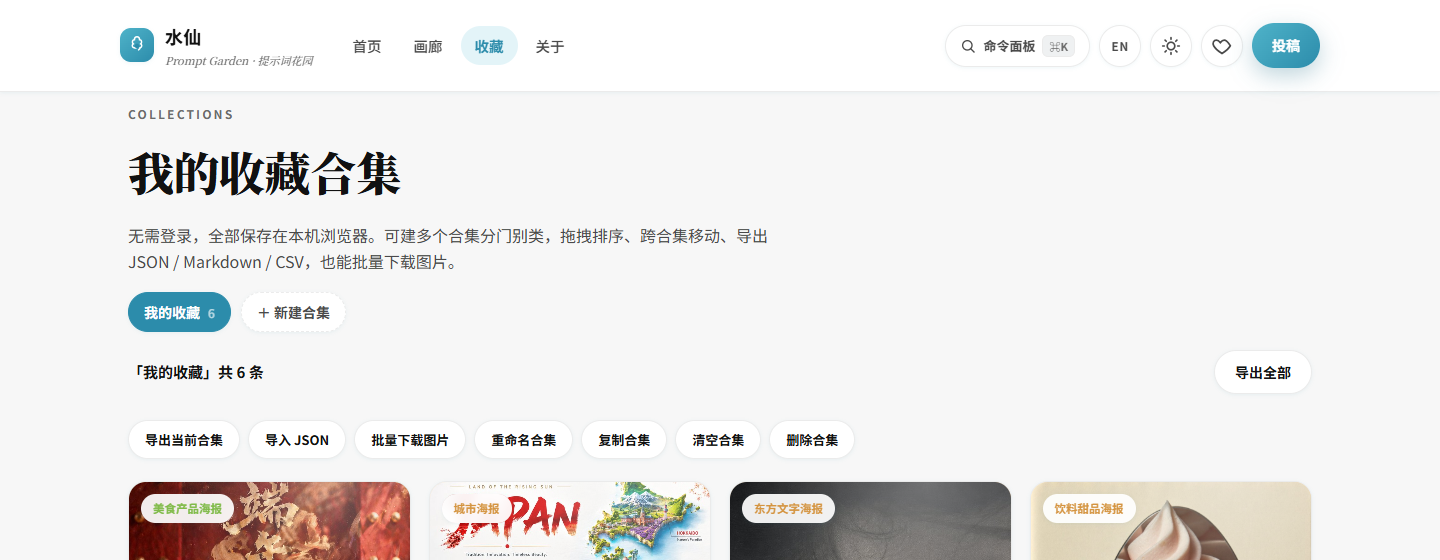
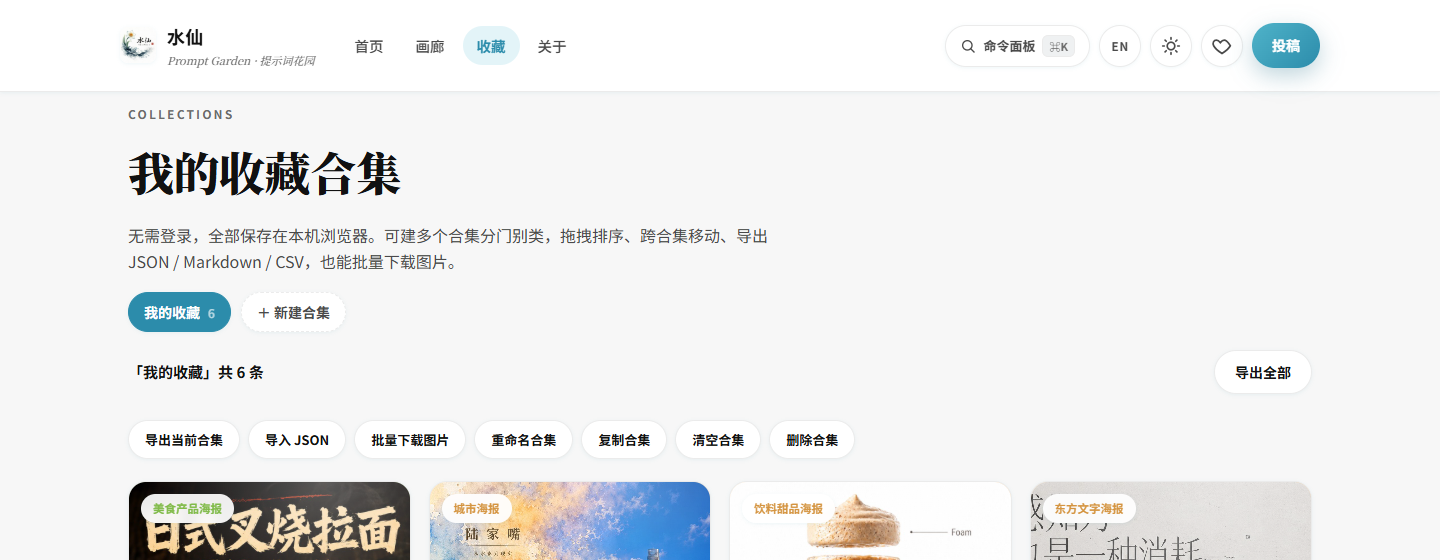
docs: 截图按 6,320 条 / 14 大类重拍
- 8 张截图全部换成当前界面（首页/经典版/详情/命令面板/分面/收藏/英文/手机）
- 详情页示例改用「食物海报」（无变量占位符），收藏示例改用美食·城市·文字·甜品等安全类目
- README 图片 URL 版本参数 ?v=20260921 -> ?v=20261112（避开 GitHub camo 旧图缓存）

Changed region(s): [[0.0625, 0.85, 0.9375, 1.0], [0.0625, 0.0304, 0.2188, 0.1214], [0.25, 0.0607, 0.4062, 0.0911]]

diff --git a/README.md b/README.md
@@ -16,7 +16,7 @@
 
 </div>
 
-<img src="docs/screenshots/features/01-home.png?v=20260921" alt="首页" width="100%">
+<img src="docs/screenshots/features/01-home.png?v=20261112" alt="首页" width="100%">
 
 ## 这是什么
 
@@ -76,22 +76,22 @@ python -m http.server 8094 --directory shuixian-unified
 
 | 现代版 — 页面级拆分 | 经典版 — 14 大类卡片墙 |
 | --- | --- |
-| <img src="docs/screenshots/features/01-home.png?v=20260921" alt="现代版首页"> | <img src="docs/screenshots/unified/home-classic.png?v=20260921" alt="经典版首页"> |
+| <img src="docs/screenshots/features/01-home.png?v=20261112" alt="现代版首页"> | <img src="docs/screenshots/unified/home-classic.png?v=20261112" alt="经典版首页"> |
 
 <details>
 <summary>更多截图（提示词详情 / 命令面板 / 标签分面 / 收藏合集 / 英文版 / 手机端）</summary>
 
 | 提示词详情 · 复制与收藏 | 命令面板 ⌘K |
 | --- | --- |
-| <img src="docs/screenshots/features/07-detail.png?v=20260921" alt="提示词详情"> | <img src="docs/screenshots/features/02-command-palette.png?v=20260921" alt="命令面板"> |
+| <img src="docs/screenshots/features/07-detail.png?v=20261112" alt="提示词详情"> | <img src="docs/screenshots/features/02-command-palette.png?v=20261112" alt="命令面板"> |
 
 | 标签分面 | 收藏合集管理 |
 | --- | --- |
-| <img src="docs/screenshots/features/03-facets.png?v=20260921" alt="标签分面"> | <img src="docs/screenshots/features/08-collections.png?v=20260921" alt="收藏合集"> |
+| <img src="docs/screenshots/features/03-facets.png?v=20261112" alt="标签分面"> | <img src="docs/screenshots/features/08-collections.png?v=20261112" alt="收藏合集"> |
 
 | 英文版 | 手机端 |
 | --- | --- |
-| <img src="docs/screenshots/features/10-english-home.png?v=20260921" alt="英文版"> | <img src="docs/screenshots/features/16-mobile-nav.png?v=20260921" alt="手机端"> |
+| <img src="docs/screenshots/features/10-english-home.png?v=20261112" alt="英文版"> | <img src="docs/screenshots/features/16-mobile-nav.png?v=20261112" alt="手机端"> |
 
 </details>
 

diff --git a/README.en.md b/README.en.md
@@ -16,7 +16,7 @@
 
 </div>
 
-<img src="docs/screenshots/features/01-home.png?v=20260921" alt="Home" width="100%">
+<img src="docs/screenshots/features/01-home.png?v=20261112" alt="Home" width="100%">
 
 ## What is this
 
@@ -75,22 +75,22 @@ Same dataset, two ways to browse. The switch tries to stay on the same kind of p
 
 | Modern — one page per view | Classic — 14-category card wall |
 | --- | --- |
-| <img src="docs/screenshots/features/01-home.png?v=20260921" alt="Modern home"> | <img src="docs/screenshots/unified/home-classic.png?v=20260921" alt="Classic home"> |
+| <img src="docs/screenshots/features/01-home.png?v=20261112" alt="Modern home"> | <img src="docs/screenshots/unified/home-classic.png?v=20261112" alt="Classic home"> |
 
 <details>
 <summary>More screenshots (prompt detail / command palette / facets / collections / English UI / mobile)</summary>
 
 | Prompt detail · copy & save | Command palette ⌘K |
 | --- | --- |
-| <img src="docs/screenshots/features/07-detail.png?v=20260921" alt="Prompt detail"> | <img src="docs/screenshots/features/02-command-palette.png?v=20260921" alt="Command palette"> |
+| <img src="docs/screenshots/features/07-detail.png?v=20261112" alt="Prompt detail"> | <img src="docs/screenshots/features/02-command-palette.png?v=20261112" alt="Command palette"> |
 
 | Facet tags | Collections manager |
 | --- | --- |
-| <img src="docs/screenshots/features/03-facets.png?v=20260921" alt="Facet tags"> | <img src="docs/screenshots/features/08-collections.png?v=20260921" alt="Collections"> |
+| <img src="docs/screenshots/features/03-facets.png?v=20261112" alt="Facet tags"> | <img src="docs/screenshots/features/08-collections.png?v=20261112" alt="Collections"> |
 
 | English UI | Mobile |
 | --- | --- |
-| <img src="docs/screenshots/features/10-english-home.png?v=20260921" alt="English UI"> | <img src="docs/screenshots/features/16-mobile-nav.png?v=20260921" alt="Mobile"> |
+| <img src="docs/screenshots/features/10-english-home.png?v=20261112" alt="English UI"> | <img src="docs/screenshots/features/16-mobile-nav.png?v=20261112" alt="Mobile"> |
 
 </details>
 
